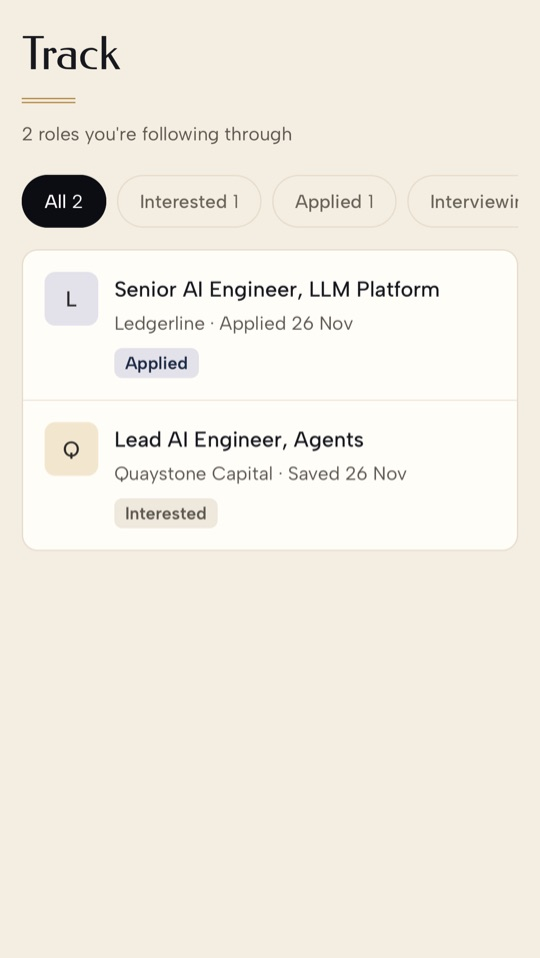
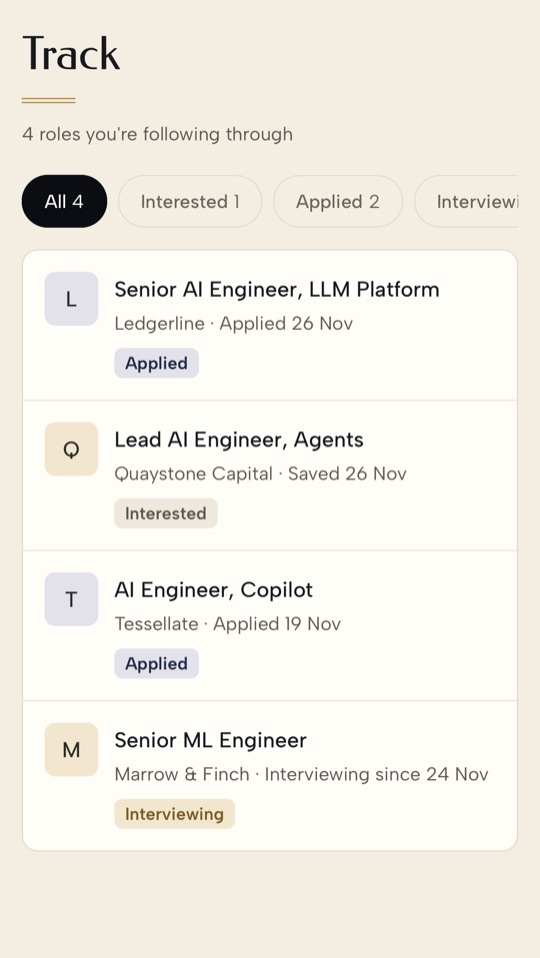
JTBF page: Manchester instead of New York; tracker screen with four roles
The app only offers UK cities. The Track screen now shows one role shortlisted, two applied for and one at interview (Morris, 2026-11-26).

diff --git a/jtbf/zh-hant/index.html b/jtbf/zh-hant/index.html
@@ -97,10 +97,10 @@
         <p>不用再開四十個分頁。只看適合你的新職位，而且很快就能看完。</p>
       </div>
       <ol class="steps">
-        <li class="step"><span class="step-ico" aria-hidden="true"><svg viewBox="0 0 24 24"><path d="M4 21v-7M4 10V3M12 21v-9M12 8V3M20 21v-5M20 12V3M1 14h6M9 8h6M17 16h6"/></svg></span><h3><span>第 1 步</span>說說你想要什麼</h3><p>選好職位、級別和想工作的地方。倫敦、紐約，或是你家沙發都行。</p><figure class="shot"><img src="../shots/step-1.jpg" alt="JTBF 註冊流程：選擇想找的職位，已選 Software engineering、Risk 和 Quant &amp; research（App 介面為英文）" width="540" height="958" loading="lazy" decoding="async"></figure></li>
+        <li class="step"><span class="step-ico" aria-hidden="true"><svg viewBox="0 0 24 24"><path d="M4 21v-7M4 10V3M12 21v-9M12 8V3M20 21v-5M20 12V3M1 14h6M9 8h6M17 16h6"/></svg></span><h3><span>第 1 步</span>說說你想要什麼</h3><p>選好職位、級別和想工作的地方。倫敦、曼徹斯特，或是你家沙發都行。</p><figure class="shot"><img src="../shots/step-1.jpg" alt="JTBF 註冊流程：選擇想找的職位，已選 Software engineering、Risk 和 Quant &amp; research（App 介面為英文）" width="540" height="958" loading="lazy" decoding="async"></figure></li>
         <li class="step"><span class="step-ico" aria-hidden="true"><svg viewBox="0 0 24 24"><rect x="8" y="3" width="12" height="17" rx="2"/><path d="M4 6v13a2 2 0 0 0 2 2h9"/></svg></span><h3><span>第 2 步</span>滑一滑，看看有什麼新的</h3><p>每天下午送上新的配對。右滑加入候選，左滑跳過，就這麼簡單。</p><figure class="shot"><img src="../shots/step-2.jpg" alt="探索頁：倫敦一個資深 AI 工程師職位，薪酬 £110k–£130k，配對度 94%，下方是跳過和加入候選的按鈕" width="540" height="958" loading="lazy" decoding="async"></figure></li>
         <li class="step"><span class="step-ico" aria-hidden="true"><svg viewBox="0 0 24 24"><path d="M14 3H6a2 2 0 0 0-2 2v14a2 2 0 0 0 2 2h12a2 2 0 0 0 2-2V9z"/><path d="M14 3v6h6M8 13h8M8 17h5"/></svg></span><h3><span>第 3 步</span>調整履歷，再去申請</h3><p>AI 會按職位幫你調整履歷，然後你到僱主自己的頁面，照他們的方式申請。JTBF 從不替你申請。</p><figure class="shot"><img src="../shots/step-3.jpg" alt="為某個職位調整過的履歷，改寫過的句子以底色標示" width="540" height="958" loading="lazy" decoding="async"></figure></li>
-        <li class="step"><span class="step-ico" aria-hidden="true"><svg viewBox="0 0 24 24"><path d="M3 6l2 2 3-3M3 13l2 2 3-3M12 6h9M12 13h9M12 20h9M4 20h.01"/></svg></span><h3><span>第 4 步</span>進度一目了然</h3><p>每份申請、每個階段都在同一個地方，一路追到錄取通知。</p><figure class="shot"><img src="../shots/step-4.jpg" alt="追蹤頁：一個已申請的職位和一個已加入候選的職位" width="540" height="958" loading="lazy" decoding="async"></figure></li>
+        <li class="step"><span class="step-ico" aria-hidden="true"><svg viewBox="0 0 24 24"><path d="M3 6l2 2 3-3M3 13l2 2 3-3M12 6h9M12 13h9M12 20h9M4 20h.01"/></svg></span><h3><span>第 4 步</span>進度一目了然</h3><p>每份申請、每個階段都在同一個地方，一路追到錄取通知。</p><figure class="shot"><img src="../shots/step-4.jpg" alt="追蹤頁：四個職位，一個已加入候選、兩個已申請、一個在面試中" width="540" height="958" loading="lazy" decoding="async"></figure></li>
       </ol>
       <p class="shots-note">截圖來自 JTBF App，用的是虛構公司的示範職位。</p>
       <div class="facts">

diff --git a/jtbf/index.html b/jtbf/index.html
@@ -97,10 +97,10 @@
         <p>No more forty open tabs. Just the new roles that fit, and a quick way through them.</p>
       </div>
       <ol class="steps">
-        <li class="step"><span class="step-ico" aria-hidden="true"><svg viewBox="0 0 24 24"><path d="M4 21v-7M4 10V3M12 21v-9M12 8V3M20 21v-5M20 12V3M1 14h6M9 8h6M17 16h6"/></svg></span><h3><span>Step 1</span>Tell it what you&rsquo;re after</h3><p>Pick your roles, your level and where you&rsquo;d like to work. London, New York, or your own sofa.</p><figure class="shot"><img src="shots/step-1.jpg" alt="JTBF onboarding: picking the roles you’re after, with Software engineering, Risk and Quant & research chosen" width="540" height="958" loading="lazy" decoding="async"></figure></li>
+        <li class="step"><span class="step-ico" aria-hidden="true"><svg viewBox="0 0 24 24"><path d="M4 21v-7M4 10V3M12 21v-9M12 8V3M20 21v-5M20 12V3M1 14h6M9 8h6M17 16h6"/></svg></span><h3><span>Step 1</span>Tell it what you&rsquo;re after</h3><p>Pick your roles, your level and where you&rsquo;d like to work. London, Manchester, or your own sofa.</p><figure class="shot"><img src="shots/step-1.jpg" alt="JTBF onboarding: picking the roles you’re after, with Software engineering, Risk and Quant & research chosen" width="540" height="958" loading="lazy" decoding="async"></figure></li>
         <li class="step"><span class="step-ico" aria-hidden="true"><svg viewBox="0 0 24 24"><rect x="8" y="3" width="12" height="17" rx="2"/><path d="M4 6v13a2 2 0 0 0 2 2h9"/></svg></span><h3><span>Step 2</span>Swipe through what&rsquo;s new</h3><p>Fresh matches land every afternoon. Swipe right to shortlist, left to pass. That&rsquo;s it.</p><figure class="shot"><img src="shots/step-2.jpg" alt="The Discover feed: a role card for a Senior AI Engineer in London, £110k–£130k, 94% match, with pass and shortlist buttons" width="540" height="958" loading="lazy" decoding="async"></figure></li>
         <li class="step"><span class="step-ico" aria-hidden="true"><svg viewBox="0 0 24 24"><path d="M14 3H6a2 2 0 0 0-2 2v14a2 2 0 0 0 2 2h12a2 2 0 0 0 2-2V9z"/><path d="M14 3v6h6M8 13h8M8 17h5"/></svg></span><h3><span>Step 3</span>Tailor your CV, then apply</h3><p>AI tailors your CV to the role. Then you apply on the employer&rsquo;s own page, the way they ask. JTBF never applies for you.</p><figure class="shot"><img src="shots/step-3.jpg" alt="A CV tailored for one role, with the reworded lines highlighted" width="540" height="958" loading="lazy" decoding="async"></figure></li>
-        <li class="step"><span class="step-ico" aria-hidden="true"><svg viewBox="0 0 24 24"><path d="M3 6l2 2 3-3M3 13l2 2 3-3M12 6h9M12 13h9M12 20h9M4 20h.01"/></svg></span><h3><span>Step 4</span>Keep track</h3><p>Every application and its stage in one place, all the way to the offer.</p><figure class="shot"><img src="shots/step-4.jpg" alt="The Track tab: one role applied for and one shortlisted" width="540" height="958" loading="lazy" decoding="async"></figure></li>
+        <li class="step"><span class="step-ico" aria-hidden="true"><svg viewBox="0 0 24 24"><path d="M3 6l2 2 3-3M3 13l2 2 3-3M12 6h9M12 13h9M12 20h9M4 20h.01"/></svg></span><h3><span>Step 4</span>Keep track</h3><p>Every application and its stage in one place, all the way to the offer.</p><figure class="shot"><img src="shots/step-4.jpg" alt="The Track tab: four roles, one shortlisted, two applied for and one at interview" width="540" height="958" loading="lazy" decoding="async"></figure></li>
       </ol>
       <p class="shots-note">Screens from the JTBF app, on sample roles from made-up companies.</p>
       <div class="facts">
